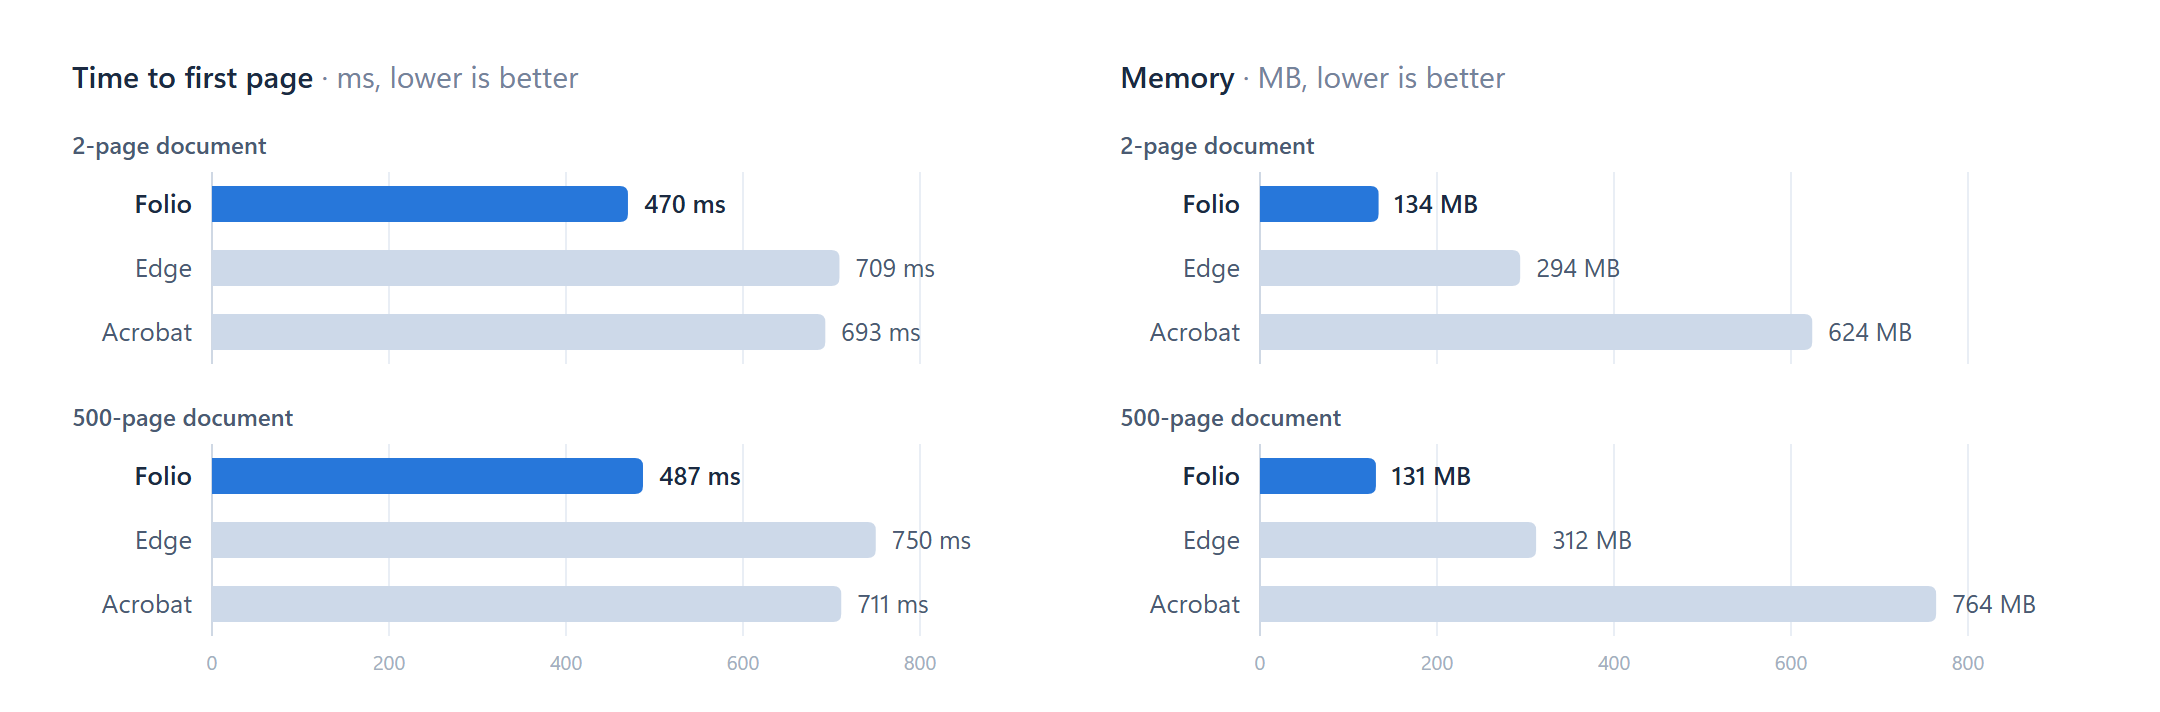
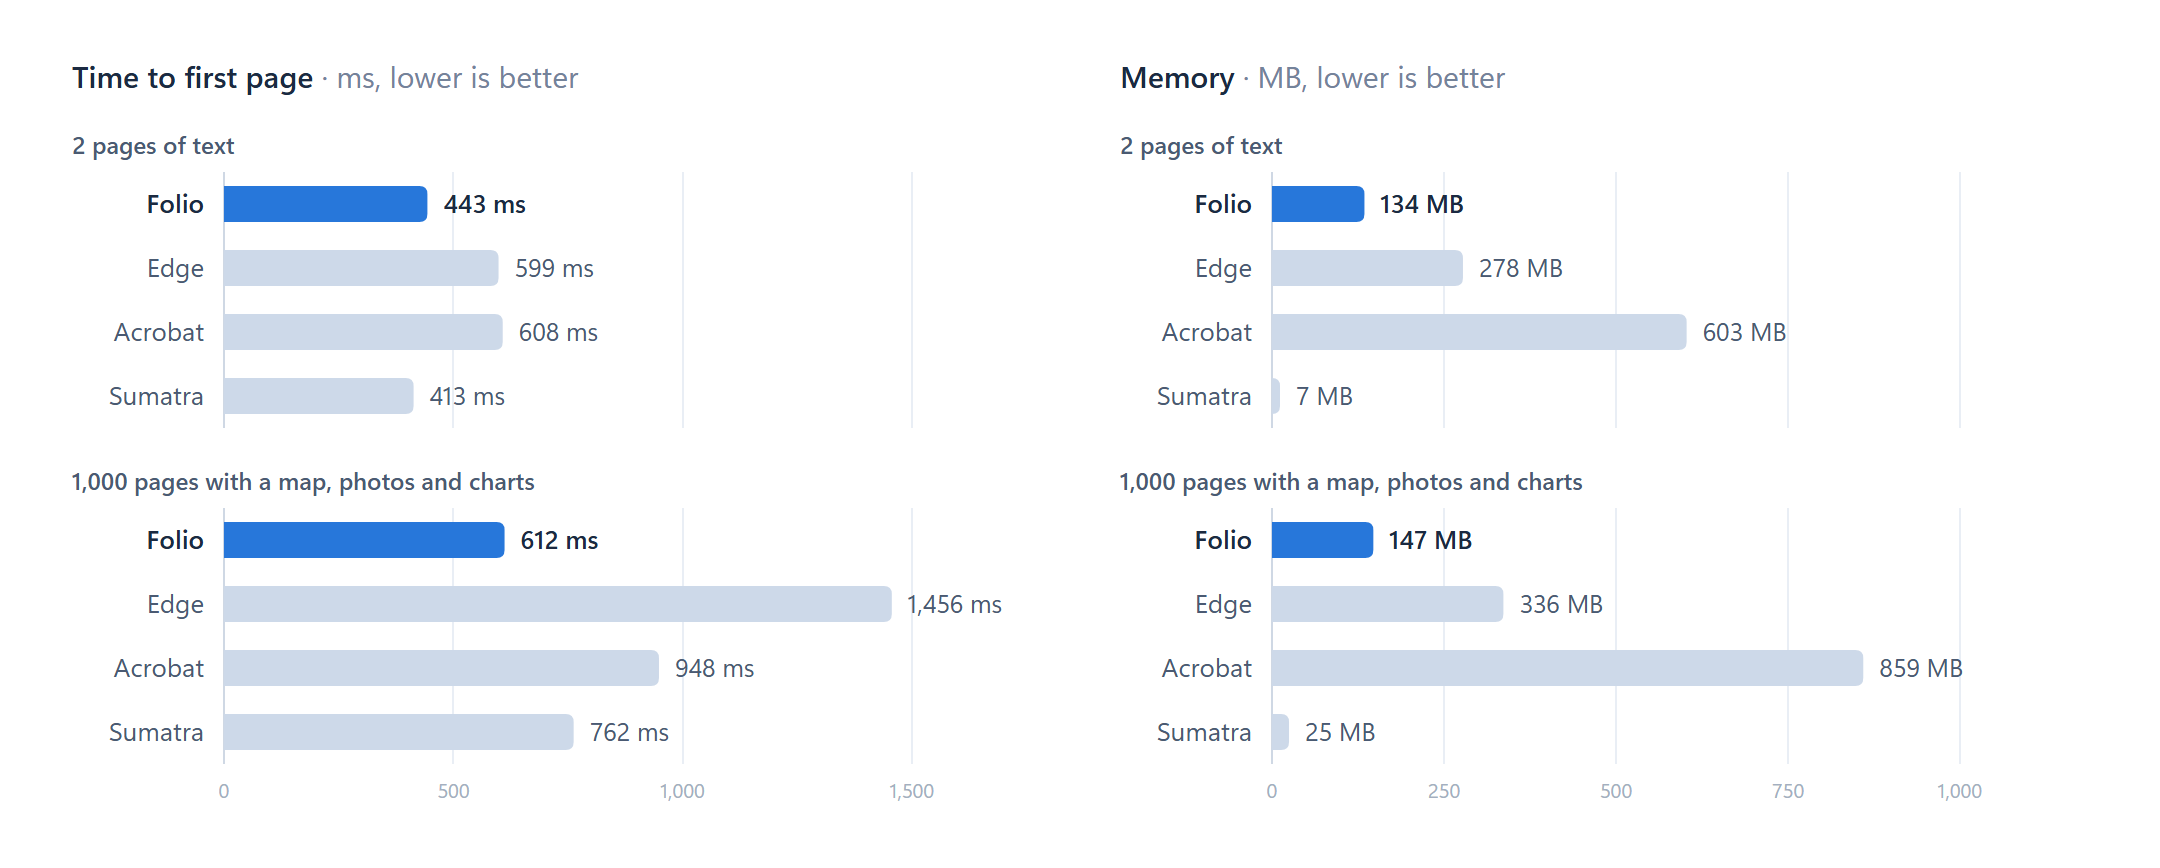
fix(tools): keep benchmark viewers in front and isolate Edge runs
- Raise each benchmark viewer window to the top without taking focus, so a viewer opened behind other windows still draws its first page
- Start Edge with a blank profile: no sign-in, sync, extensions, default apps, background networking or component updates
- Warn when the screen is locked, since viewers start and draw more slowly then
- Remove the footer from the benchmark chart and regenerate benchmark.png
- Update docs/tools.md and the bench command docs to match

diff --git a/tools/Folio.Tools/Bench/Chart.cs b/tools/Folio.Tools/Bench/Chart.cs
@@ -17,12 +17,9 @@ internal static class Chart
         var documents = results.Documents.Where(d => results.Results.Any(r => r.Document == d.Id)).ToList();
         string time = Panel(results, documents, apps, s => s.PageMs, "ms", out int height);
         string memory = Panel(results, documents, apps, s => s.MemoryMB, "MB", out _);
-        string runs = results.Runs == 1 ? "One warm start" : $"Median of {results.Runs} warm starts";
-        string footer = $"{runs} on {results.Machine}, {results.Windows}. " +
-            $"Memory is the private working set of all the viewer's processes once it settles, at most {results.SettleSeconds:0.#} s after page 1 appears.";
 
-        // 28 px padding, 20 px headings, 6 px gap, the plots, 14 px gap, 16 px footer, 22 px padding.
-        int pageHeight = 28 + 20 + 6 + height + 14 + 16 + 22;
+        // 28 px padding, 20 px headings, 6 px gap, the plots, 28 px padding.
+        int pageHeight = 28 + 20 + 6 + height + 28;
         string html = $$"""
             <!DOCTYPE html>
             <html lang="en">
@@ -32,14 +29,13 @@ internal static class Chart
               * { box-sizing: border-box; margin: 0; }
               html, body { width: {{Width}}px; height: {{pageHeight}}px; background: transparent; }
               /* 12 px at 2x, the same 24 px corner as .github/assets/hero.png. On a wrapper, as on body it would paint the whole page. */
-              main { width: 100%; height: 100%; background: #fff; border-radius: 12px; padding: 28px 36px 22px;
+              main { width: 100%; height: 100%; background: #fff; border-radius: 12px; padding: 28px 36px;
                      font-family: "Segoe UI Variable Text", "Segoe UI", sans-serif; color: #1b2a41; }
               .panels { display: grid; grid-template-columns: 1fr 1fr; gap: 40px; }
               h2 { font-size: 15px; line-height: 20px; font-weight: 600; }
               h2 span { font-weight: 400; color: #74839a; }
               svg { display: block; margin-top: 6px; }
               svg text { font-family: inherit; }
-              footer { margin-top: 14px; font-size: 11px; line-height: 16px; color: #8592a6; }
             </style>
             </head>
             <body>
@@ -48,7 +44,6 @@ internal static class Chart
                 <section><h2>Time to first page <span>· ms, lower is better</span></h2>{{time}}</section>
                 <section><h2>Memory <span>· MB, lower is better</span></h2>{{memory}}</section>
               </div>
-              <footer>{{HtmlEncode(footer)}}</footer>
             </main>
             </body>
             </html>

diff --git a/tools/Folio.Tools/Bench/Native.cs b/tools/Folio.Tools/Bench/Native.cs
@@ -7,6 +7,10 @@ internal static class Native
     public const uint PROCESS_QUERY_LIMITED_INFORMATION = 0x1000, PROCESS_VM_READ = 0x10, STILL_ACTIVE = 259;
     public const uint TH32CS_SNAPPROCESS = 0x2;
     public const int DWMWA_CLOAKED = 14;
+    public static readonly IntPtr HWND_TOP = IntPtr.Zero, HWND_TOPMOST = new(-1);
+    public const uint SWP_NOSIZE = 0x1, SWP_NOMOVE = 0x2, SWP_NOACTIVATE = 0x10, SWP_ASYNCWINDOWPOS = 0x4000;
+    public const int GWL_EXSTYLE = -20, WS_EX_TOPMOST = 0x8;
+    public const int WTS_CURRENT_SESSION = -1, WTSSessionInfoEx = 25, WTS_SESSIONSTATE_LOCK = 0;
 
     [StructLayout(LayoutKind.Sequential)]
     public struct PROCESS_MEMORY_COUNTERS_EX2
@@ -53,6 +57,25 @@ internal static class Native
     [DllImport("user32.dll")] public static extern bool IsIconic(IntPtr hwnd);
     [DllImport("user32.dll")] public static extern bool GetWindowRect(IntPtr hwnd, out RECT rect);
     [DllImport("user32.dll")] public static extern uint GetWindowThreadProcessId(IntPtr hwnd, out uint pid);
+    [DllImport("user32.dll")] public static extern bool SetWindowPos(IntPtr hwnd, IntPtr insertAfter, int x, int y, int cx, int cy, uint flags);
+    [DllImport("user32.dll")] public static extern int GetWindowLong(IntPtr hwnd, int index);
+    [DllImport("wtsapi32.dll")] public static extern bool WTSQuerySessionInformation(IntPtr server, int sessionId, int infoClass, out IntPtr buffer, out int bytes);
+    [DllImport("wtsapi32.dll")] public static extern void WTSFreeMemory(IntPtr memory);
+
+    /// <summary>Whether this session's screen is locked.</summary>
+    public static bool IsSessionLocked()
+    {
+        if (!WTSQuerySessionInformation(IntPtr.Zero, WTS_CURRENT_SESSION, WTSSessionInfoEx, out var buffer, out _)) return false;
+        try
+        {
+            // WTSINFOEXW: a level number, then WTSINFOEX_LEVEL1_W (8-byte aligned) whose third field is SessionFlags.
+            return Marshal.ReadInt32(buffer, 16) == WTS_SESSIONSTATE_LOCK;
+        }
+        finally
+        {
+            WTSFreeMemory(buffer);
+        }
+    }
     [DllImport("dwmapi.dll")] public static extern int DwmGetWindowAttribute(IntPtr hwnd, int attribute, out int value, int size);
 
     [DllImport("d3d11.dll")]

diff --git a/tools/Folio.Tools/Bench/BenchCommand.cs b/tools/Folio.Tools/Bench/BenchCommand.cs
@@ -9,7 +9,7 @@ namespace Folio.Tools.Bench;
 /// </summary>
 /// <remarks>
 /// Each run starts a viewer on a benchmark document (see <see cref="Documents"/>) and watches its windows until
-/// page 1's magenta band covers --fraction of one (<see cref="WindowCapture"/>). Covered windows count too, so the
+/// page 1's magenta band covers --fraction of one (<see cref="WindowCapture"/>), keeping them in front meanwhile. The
 /// machine can be used during a run, though that adds noise. Viewers are closed between runs, and every
 /// document/viewer pair gets --warmup runs that aren't recorded first, so the numbers are warm starts (files in the
 /// OS cache). Viewers take turns, to spread out noise.
@@ -125,6 +125,7 @@ internal static class BenchCommand
         string csv = Path.Combine(outDir, "runs.csv");
         File.WriteAllText(csv, "App,Document,Run,WindowMs,PageMs,DetectedMs,MemoryMB,PeakMemoryMB,WorkingSetMB,CommitMB,Processes,Error\n");
         int width = viewers.Max(v => v.Name.Length);
+        bool warnedLocked = false;
 
         try
         {
@@ -146,6 +147,11 @@ internal static class BenchCommand
                     foreach (var viewer in viewers)
                     {
                         string? frame = saveFrames ? Path.Combine(outDir, "frames", $"{viewer.Name}-{document.Id}-{label.Replace('/', '-').Replace(' ', '-')}.png") : null;
+                        if (!warnedLocked && Native.IsSessionLocked())
+                        {
+                            Console.WriteLine("The screen is locked: viewers start and draw more slowly, so these numbers will be higher than usual.");
+                            warnedLocked = true;
+                        }
                         var started = DateTime.Now.AddSeconds(-1);
                         // Warm-up runs only load the files into the OS cache; their memory isn't recorded.
                         var result = await Measurement.RunAsync(viewer, document.Path, settings, device, frame, timeOnly: run <= 0);

diff --git a/tools/Folio.Tools/Bench/Viewers.cs b/tools/Folio.Tools/Bench/Viewers.cs
@@ -59,8 +59,13 @@ internal sealed class Viewer : IDisposable
 
             case "Edge":
                 if (Apps.Edge() is not { } edge) return null;
-                // A profile of its own keeps it apart from an Edge that's already running, so there's nothing to close.
-                string flags = $"--user-data-dir={Quote(scratch)} --no-first-run --no-default-browser-check --hide-crash-restore-bubble --new-window";
+                // A blank profile of its own, which keeps it apart from an Edge that's already running (so there's nothing
+                // to close) and from the user's settings and extensions. Without the other switches, Edge signs the new
+                // profile in with the Windows account and downloads components and experiments, which change from one
+                // session to the next.
+                string flags = $"--user-data-dir={Quote(scratch)} --no-first-run --no-default-browser-check --hide-crash-restore-bubble " +
+                    "--allow-browser-signin=false --disable-sync --disable-extensions --disable-default-apps " +
+                    "--disable-background-networking --disable-component-update --new-window";
                 return new Viewer { Name = name, Exe = edge, Arguments = f => $"{flags} {Quote(f)}", Scratch = scratch };
 
             case "Acrobat":

diff --git a/tools/Folio.Tools/Bench/WindowCapture.cs b/tools/Folio.Tools/Bench/WindowCapture.cs
@@ -216,6 +216,21 @@ internal sealed class WindowCapture : IDisposable
         return list;
     }
 
+    /// <summary>
+    /// Puts a viewer window in front, without taking the focus from what the user is doing. Windows doesn't let a viewer
+    /// started from a console in the background take the foreground, so its window can open behind other windows,
+    /// where some viewers stop drawing. Topmost keeps it in front until the run closes it; viewers that refuse that
+    /// (Acrobat) are moved to the top of the other windows instead, which this repeats if the user brings another
+    /// window to the front. Asynchronous, so a viewer that's busy starting up doesn't hold up the timing.
+    /// </summary>
+    public static void BringToFront(IntPtr hwnd)
+    {
+        if ((Native.GetWindowLong(hwnd, Native.GWL_EXSTYLE) & Native.WS_EX_TOPMOST) != 0) return;
+        const uint Flags = Native.SWP_NOMOVE | Native.SWP_NOSIZE | Native.SWP_NOACTIVATE | Native.SWP_ASYNCWINDOWPOS;
+        Native.SetWindowPos(hwnd, Native.HWND_TOPMOST, 0, 0, 0, 0, Flags);
+        Native.SetWindowPos(hwnd, Native.HWND_TOP, 0, 0, 0, 0, Flags);
+    }
+
     public static List<IntPtr> TopLevelWindows()
     {
         var list = new List<IntPtr>();

diff --git a/tools/Folio.Tools/Bench/Measurement.cs b/tools/Folio.Tools/Bench/Measurement.cs
@@ -64,7 +64,7 @@ internal sealed class Measurement
         WindowCapture? hit = null;
         try
         {
-            double lastTree = double.MinValue, lastMemory = double.MinValue;
+            double lastTree = double.MinValue, lastMemory = double.MinValue, lastRaise = double.MinValue;
             while (Elapsed() < settings.TimeoutSeconds * 1000)
             {
                 double now = Elapsed();
@@ -83,6 +83,11 @@ internal sealed class Measurement
                 {
                     result.WindowMs ??= Elapsed();
                     if (!captures.ContainsKey(hwnd)) captures[hwnd] = WindowCapture.TryStart(hwnd, device, settings.MarkerFraction, launched);
+                }
+                if (now - lastRaise >= 100)
+                {
+                    foreach (var hwnd in captures.Keys) WindowCapture.BringToFront(hwnd);
+                    lastRaise = now;
                 }
 
                 hit = captures.Values.Where(c => c?.MatchTime is not null).MinBy(c => c!.MatchTime);

diff --git a/docs/tools.md b/docs/tools.md
@@ -34,10 +34,10 @@ dotnet run --project tools/Folio.Tools -- bench --apps Folio,Edge --runs 10
 
 It publishes this checkout's Folio to `out\bench\folio` and measures it against whichever of Microsoft Edge, Adobe Acrobat and SumatraPDF are installed, on two documents generated into `out\bench\documents`: two pages of text, and 1,000 pages whose first page is a topographic map (a 15-megapixel image under some 140,000 contour line segments), the rest text with photos and charts.
 
-- **Page**: time from starting the viewer to page 1 on screen. Page 1 of each document has a magenta band across the top, drawn last; the benchmark watches the viewer's windows with Windows.Graphics.Capture until the band appears, and takes the time DWM composed that frame. Covered windows count too, so the machine can be used during a run, though that adds noise.
+- **Page**: time from starting the viewer to page 1 on screen. Page 1 of each document has a magenta band across the top, drawn last; the benchmark watches the viewer's windows with Windows.Graphics.Capture until the band appears, and takes the time DWM composed that frame. The machine can be used during a run, though that adds noise.
 - **Memory**: private working set (Task Manager's Memory column) summed over the viewer's processes once the viewer has finished loading: when the total has stayed within 2% for 2 seconds, or 5 seconds after the page appears, whichever is first. Also recorded: the peak, and commit (private bytes).
 
-Each viewer is closed between runs, and every viewer/document pair gets a warm-up run first (timed, not recorded), so the numbers are warm starts. With the defaults, a run of all four viewers takes about 5 minutes. Viewers take turns, to spread out noise. Edge and SumatraPDF run with a temporary profile, leaving yours alone. Folio, Acrobat and SumatraPDF would hand the file to a copy that's already running, so the benchmark stops if one is; `--close-running` closes them instead (losing unsaved work).
+Each viewer is closed between runs, and every viewer/document pair gets a warm-up run first (timed, not recorded), so the numbers are warm starts. With the defaults, a run of all four viewers takes about 5 minutes. Viewers take turns, to spread out noise. Edge runs with a blank temporary profile: not signed in, no extensions, and no background downloads, which otherwise change its results from one session to the next. SumatraPDF gets temporary settings too, so neither touches yours. Each viewer's window is kept in front until the page shows, without taking the focus, as Windows would otherwise open it behind the app you're using. Runs still go ahead while the screen is locked, but viewers are slower then (Folio by about 70% when tested), so the benchmark warns if it notices. Folio, Acrobat and SumatraPDF would hand the file to a copy that's already running, so the benchmark stops if one is; `--close-running` closes them instead (losing unsaved work).
 
 Results go to `out\bench\<date-time>\`: `runs.csv` (every run), `results.json` (medians) and `chart.png`. To update the README chart, redraw it from a run, picking the viewers to show:
 
